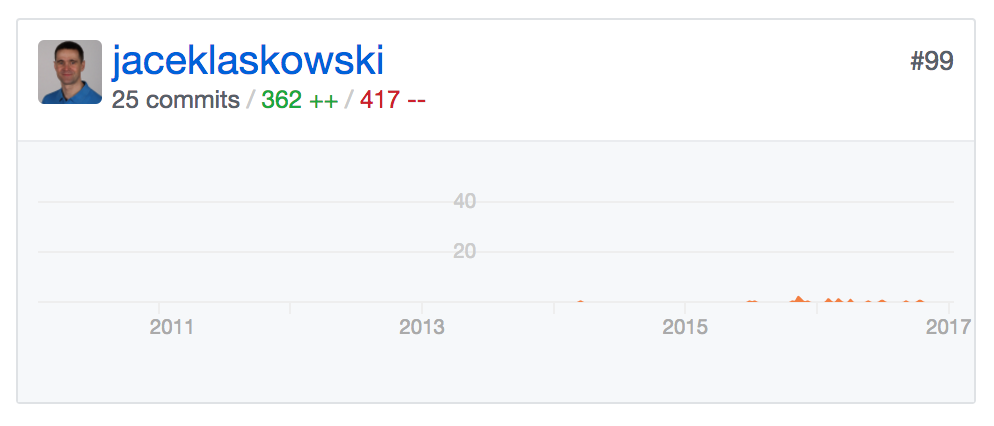
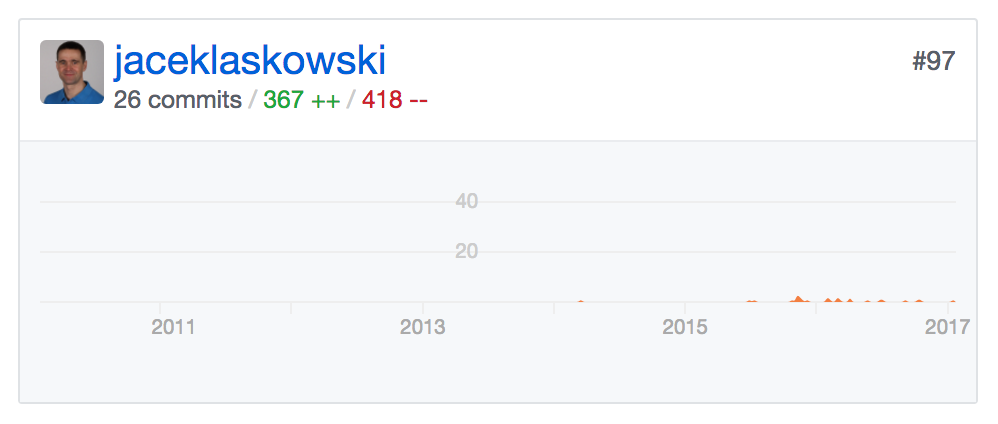
[SLIDES] Before Spark Workshop Online Day 1

diff --git a/slides/00_agenda-5-days-Scala-SparkSQL.html b/slides/00_agenda-5-days-Scala-SparkSQL.html
@@ -102,7 +102,7 @@
           </section>
           <section id="github-spark-contributors">
             <p>
-              <a href="https://github.com/apache/spark/graphs/contributors">Ranked #96 in Spark contributors</a>
+              <a href="https://github.com/apache/spark/graphs/contributors">Ranked #97 in Spark contributors</a>
             </p>
             <p>
               <img width="100%" src="images/jaceklaskowski-github-spark-stats.png" style="border: 0">

diff --git a/slides/README.md b/slides/README.md
@@ -11,7 +11,7 @@
 * [5-Day Spark Administration and Monitoring Workshop Agenda](http://blog.jaceklaskowski.pl/spark-workshop/slides/00_agenda-5-days-Spark-Administration-Monitoring.html) - taught in [Villeneuve-Loubet, France](https://en.wikipedia.org/wiki/Villeneuve-Loubet)
 * [1-Day Spark SQL 2 / Scala Workshop Using Databricks Cloud Agenda](http://blog.jaceklaskowski.pl/spark-workshop/slides/00_agenda-1-day-SparkSQL-Databricks-Cloud.html) for Software Developers and Data Analysts - taught in [Toronto, Canada](https://en.wikipedia.org/wiki/Toronto)
 * [4-Day Spark 2 / Scala Workshop Agenda](http://blog.jaceklaskowski.pl/spark-workshop/slides/00_agenda-4-days-toronto.html) for Software Developers and Data Analysts - taught in [Toronto, Canada](https://en.wikipedia.org/wiki/Toronto)
-* [Spark SQL / Scala Workshop Agenda (5 days)](http://blog.jaceklaskowski.pl/spark-workshop/slides/00_agenda-5-days-Scala-SparkSQL.html) for Data Engineers - taught in [Collegeville, Pennsylvania](https://en.wikipedia.org/wiki/Collegeville,_Pennsylvania)
+* [Spark SQL / Scala Workshop Agenda (5 days)](http://blog.jaceklaskowski.pl/spark-workshop/slides/00_agenda-5-days-Scala-SparkSQL.html) for Data Engineers - taught in [Collegeville, PA, USA](https://en.wikipedia.org/wiki/Collegeville,_Pennsylvania)
 
 ### Day 1 - Introduction to Spark, Scala and Tools
 
